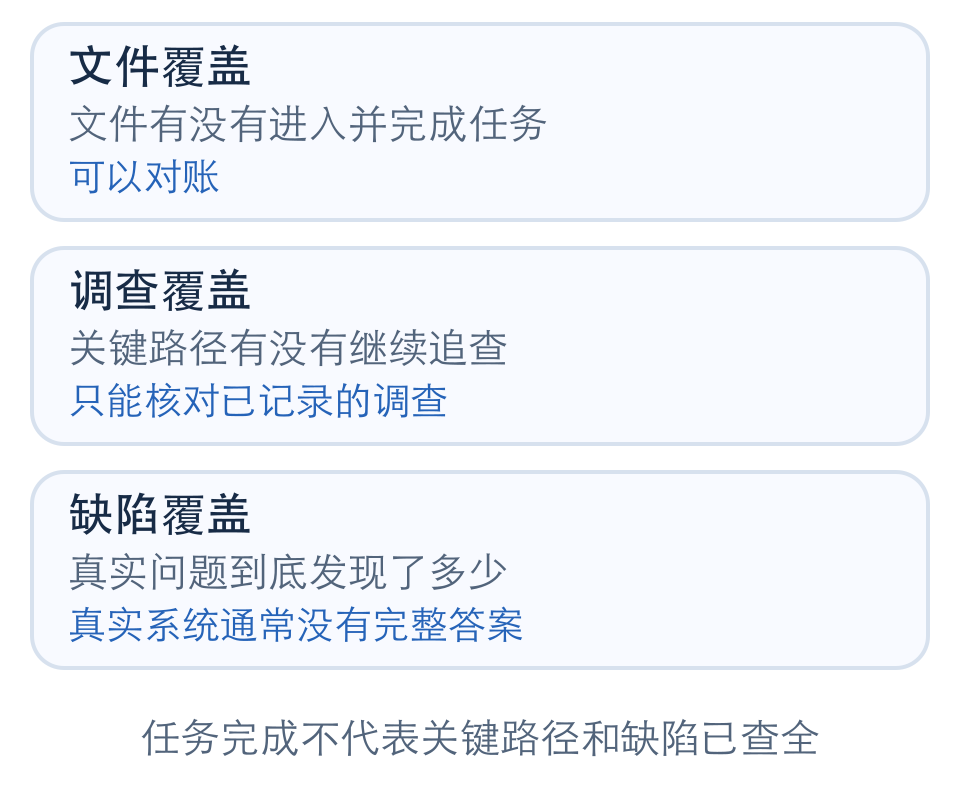
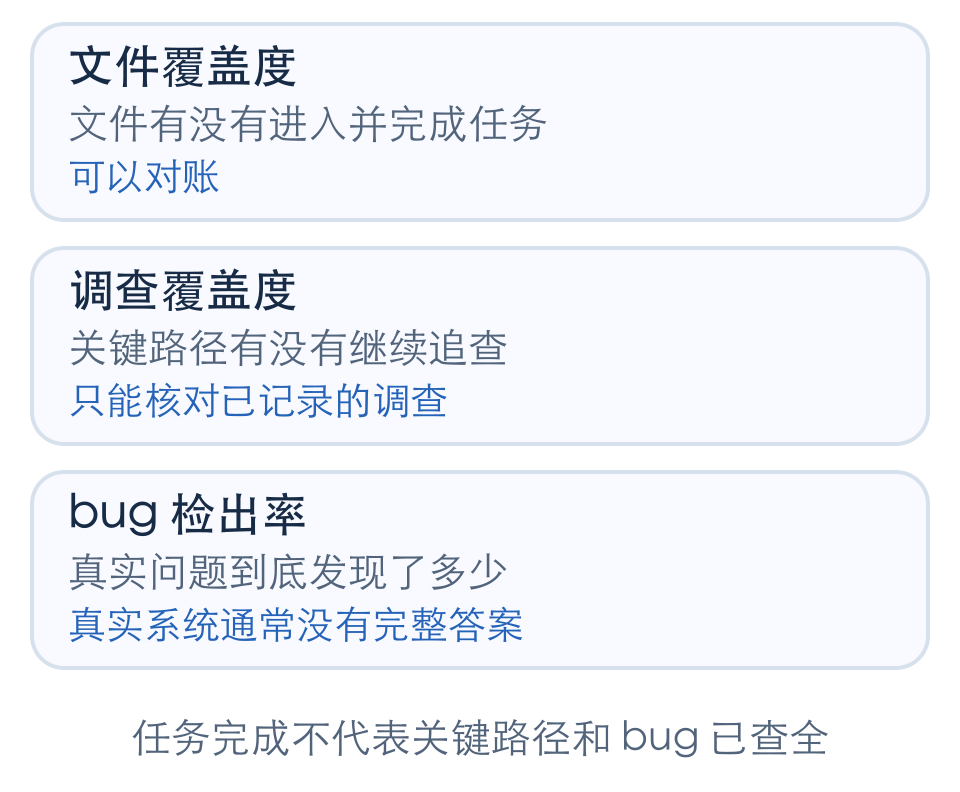
docs: 统一 Code Review 用语并补充 OCR 规则说明

diff --git a/code-examples/ai-code-review/render_figures.py b/code-examples/ai-code-review/render_figures.py
@@ -228,7 +228,7 @@ def graph_pipeline(mobile=False):
     body += [arrow(258, 266, 322, 266), arrow(588, 266, 652, 266), arrow(918, 266, 982, 266)]
     body += [routed_arrow("M1085 314 V390 H455 V320")]
     body += [text(770, 381, "证据不足：再次查询 / 补读", 20, BLUE, anchor="middle")]
-    body += [text(600, 436, "图关系帮助找代码，向量相似度帮助找入口；缺陷判断仍需源码和行为证据", 19, MUTED, anchor="middle")]
+    body += [text(600, 436, "图关系帮助找代码，向量相似度帮助找入口；确认 bug 仍需源码和行为证据", 19, MUTED, anchor="middle")]
     return canvas("代码图的索引维护与审查查询", "\n".join(body), 1200, 458)
 
 
@@ -268,9 +268,9 @@ def graph(mobile=False):
 
 def evaluation(mobile=False):
     layers = [
-        ("文件覆盖", "文件有没有进入并完成任务", "证据：清单与执行状态", "可以对账"),
-        ("调查覆盖", "关键路径有没有继续追查", "证据：读取、搜索与验证记录", "只能核对已记录的调查"),
-        ("缺陷覆盖", "真实问题到底发现了多少", "证据：已知缺陷与独立样本", "真实系统通常没有完整答案"),
+        ("文件覆盖度", "文件有没有进入并完成任务", "证据：清单与执行状态", "可以对账"),
+        ("调查覆盖度", "关键路径有没有继续追查", "证据：读取、搜索与验证记录", "只能核对已记录的调查"),
+        ("bug 检出率", "真实问题到底发现了多少", "证据：已知 bug 与独立样本", "真实系统通常没有完整答案"),
     ]
     body = []
     for index, (title, question, evidence, limit) in enumerate(layers):
@@ -288,10 +288,10 @@ def evaluation(mobile=False):
             body += [text(x + width / 2, y + 117, evidence, 18, MUTED, anchor="middle")]
             body += [text(x + width / 2, y + 161, limit, 19, BLUE, anchor="middle")]
     if mobile:
-        body += [text(240, 376, "任务完成不代表关键路径和缺陷已查全", 20, MUTED, anchor="middle")]
-        return canvas("审查覆盖的三层", "\n".join(body), 480, 396)
-    body += [text(500, 247, "文件任务全部完成，仍然可能漏掉关键路径和缺陷", 20, MUTED, anchor="middle")]
-    return canvas("审查覆盖的三层", "\n".join(body), height=270)
+        body += [text(240, 376, "任务完成不代表关键路径和 bug 已查全", 20, MUTED, anchor="middle")]
+        return canvas("文件覆盖度、调查覆盖度与 bug 检出率", "\n".join(body), 480, 396)
+    body += [text(500, 247, "文件任务全部完成，仍然可能漏掉关键路径和 bug", 20, MUTED, anchor="middle")]
+    return canvas("文件覆盖度、调查覆盖度与 bug 检出率", "\n".join(body), height=270)
 
 
 def main():

diff --git a/code-examples/ai-code-review/README.md b/code-examples/ai-code-review/README.md
@@ -21,7 +21,7 @@ Python 版本，未来复跑时应核对这些版本。
 2. 建图，使用限定名查询 `get_order` 的直接调用方。
 3. 删除查询中的租户条件，更新图并查询变更影响范围。
 4. 执行已有的“读取自己订单”测试，确认它仍通过。
-5. 额外执行跨租户请求，确认缺陷版本泄露结果，恢复查询后拒绝访问。
+5. 额外执行跨租户请求，确认有 bug 的版本泄露结果，恢复查询后拒绝访问。
 
 `observed-results.json` 是 2026-10-24 的实际观测，源码固定为
 `tirth8205/code-review-graph@343ab7cea29d47a3e805381e09f8243a43d43d88`。
@@ -37,7 +37,7 @@ Python 版本，未来复跑时应核对这些版本。
 - 本次 `get_review_context` 只返回 `store.py` 的源码片段；其余受影响文件需要另读。
 
 这验证的是小样本中的结构查询、增量更新和 SQL 行为。它没有测量完整审查的
-token 消耗，也不能用于比较任何模型或审查产品的缺陷检出率。
+token 消耗，也不能用于比较任何模型或审查产品的 bug 检出率。
 
 ## 文章配图
 

diff --git a/CLAUDE.md b/CLAUDE.md
@@ -48,6 +48,7 @@ tags:
 - Keep article titles free of parentheses.
 - For a series, use a shared title prefix and a plain sequence number, such as `AI Code Review 1: ...`.
 - Use concise section headings that name the main topic rather than full sentences.
+- In software posts, prefer `bug` for confirmed problems and “风险点” for concerns that still need verification; avoid “缺陷” in original prose and diagrams.
 - Use tables sparingly, only when readers need to compare the same attributes across items. Prefer prose or short lists for explanations, and PNG diagrams with editable sources for workflows and relationships.
 - Keep diagrams compact in the article. Prefer horizontal layouts for short workflows and call chains, omit repeated headings and decorative padding, and provide a narrow-screen version when horizontal labels would become too small.
 - Focus explanatory articles on ideas and design. Do not show commit hashes or upstream branch details in article prose; keep detailed reproducibility metadata in linked examples.
